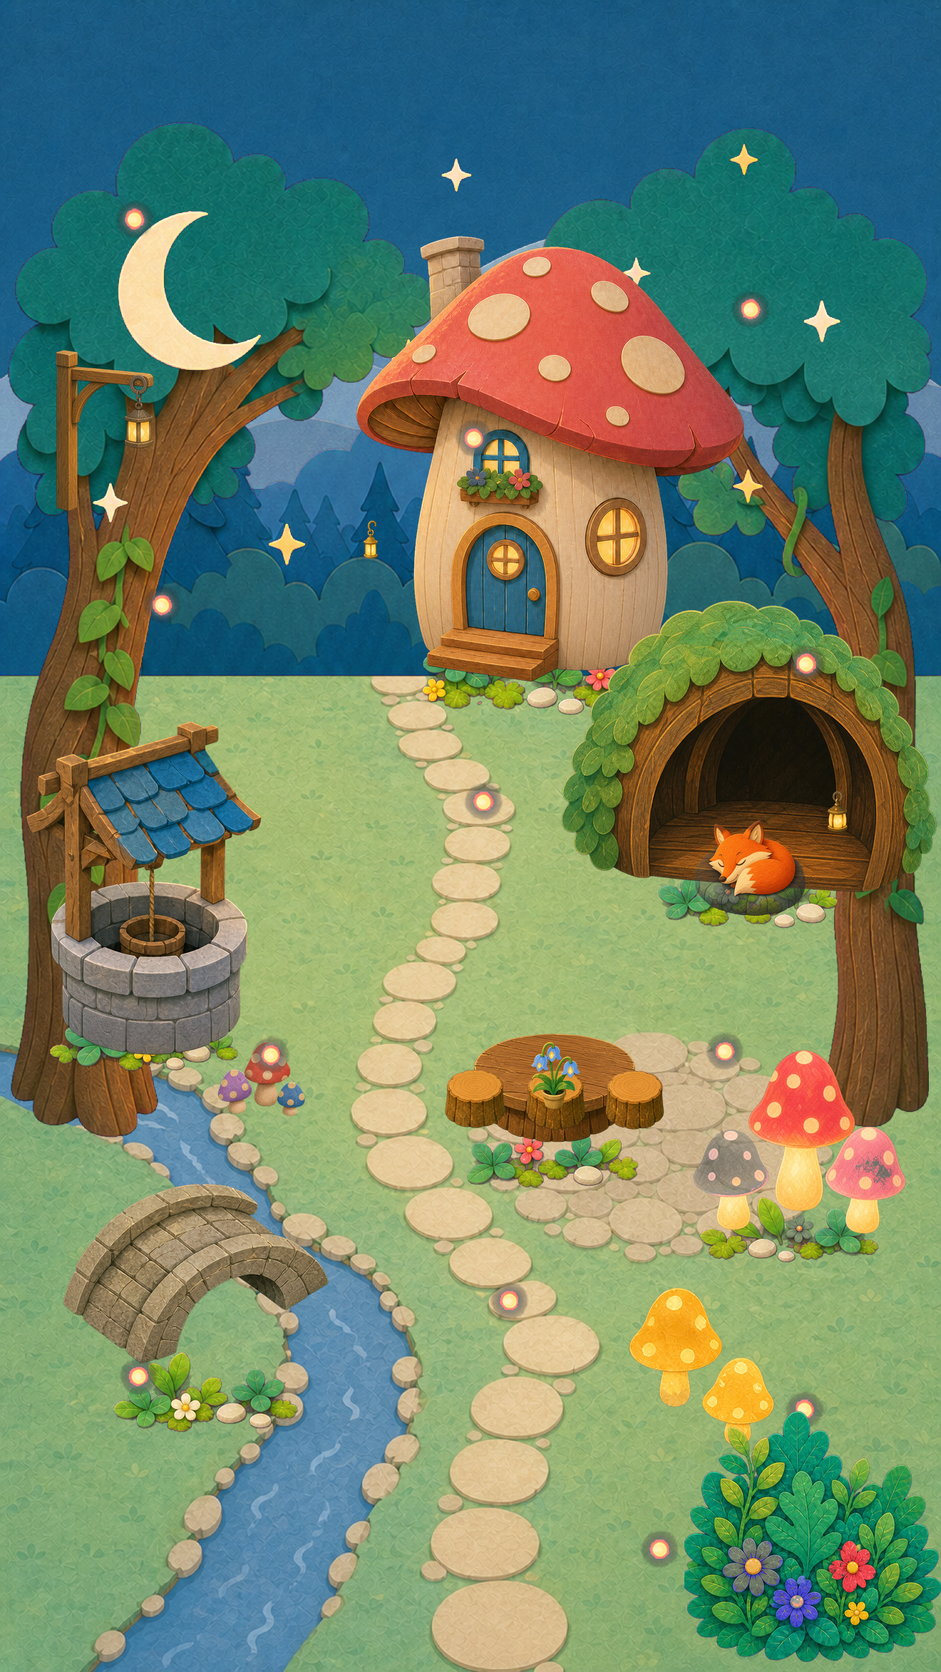
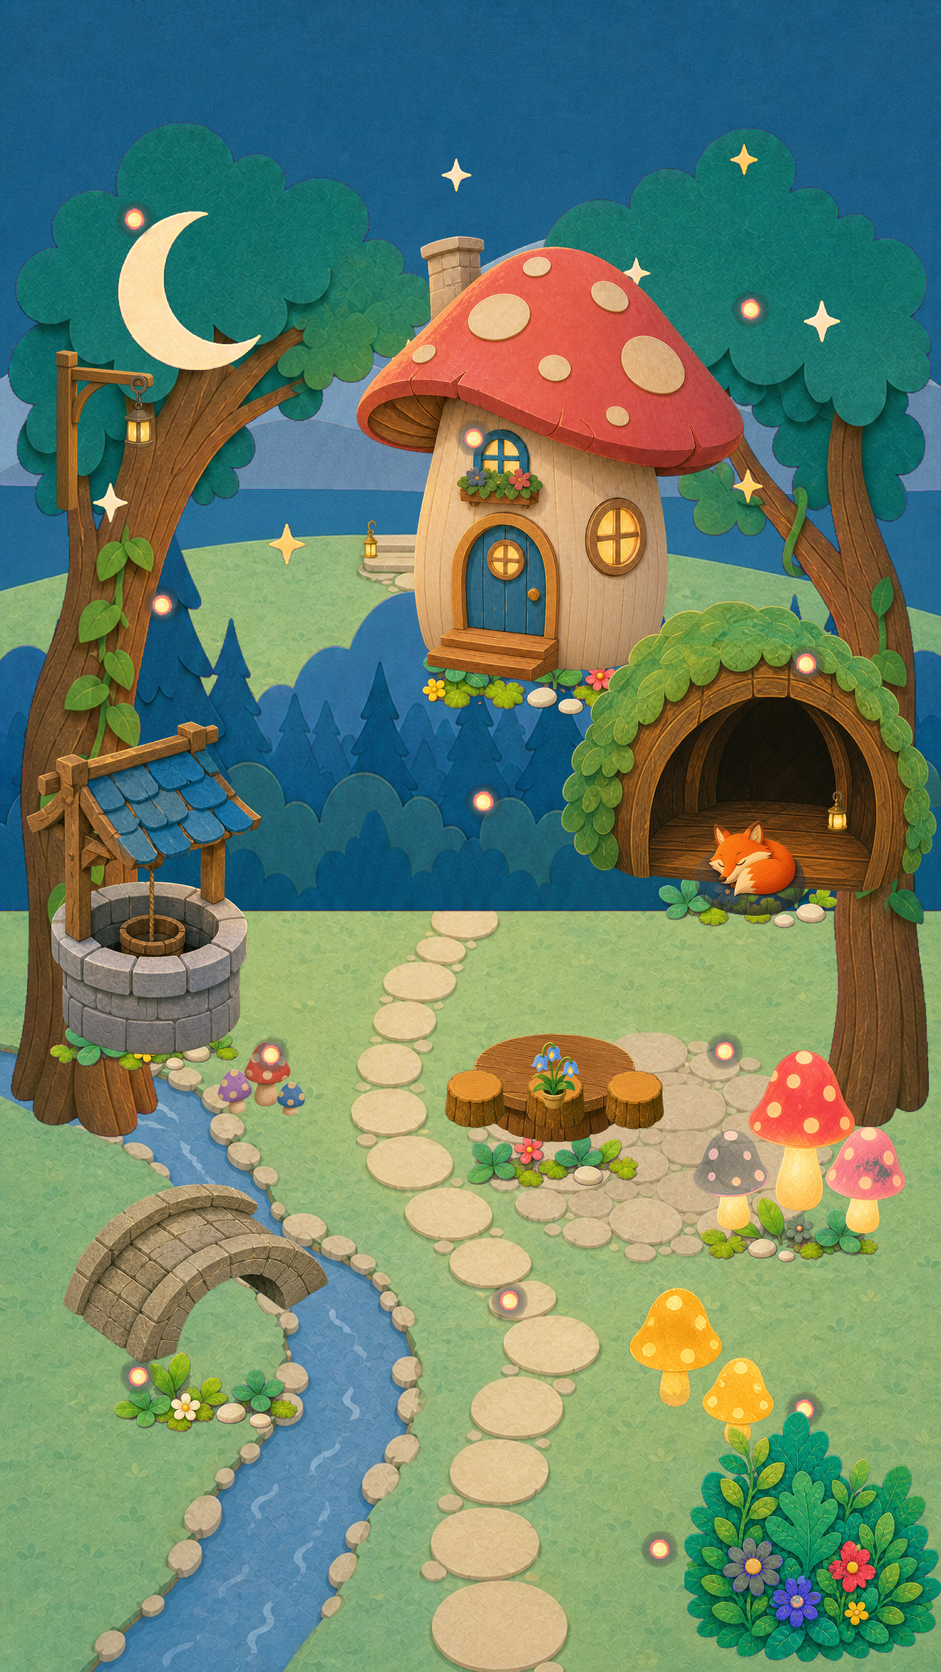
fix(grove): enclose Fairy Hollow midground

diff --git a/games/grove/assets/_new/ui_redesign_direction_b/picturebook_scene_mocks_v1/fairy_hollow_elements_v4/README.md b/games/grove/assets/_new/ui_redesign_direction_b/picturebook_scene_mocks_v1/fairy_hollow_elements_v4/README.md
@@ -8,7 +8,9 @@ separate assets rather than a flattened zone mock.
 ## Layering and clusters
 
 The opaque `foundation` holds only the stable night sky, meadow, creek, stepping-stone path,
-threshold stones, and picnic cobbles. Environment plates occupy z 10–13. Major scene clusters
+threshold stones, and picnic cobbles. Environment plates occupy z 10–13: the enlarged bounded
+forest-band crop carries the mid-woodland down behind the cottage and den, while the distant hills
+and edge trees retain the sky and side framing. Major scene clusters
 follow the original mock: upper-center `toadstool_cottage`, right `fox_den`, left
 `wishing_well`, lower-left `stone_bridge`, center `picnic_set`, and the three mushroom clusters.
 Each local ground-dressing member is in the same cluster as the prop it blends into. There is no
